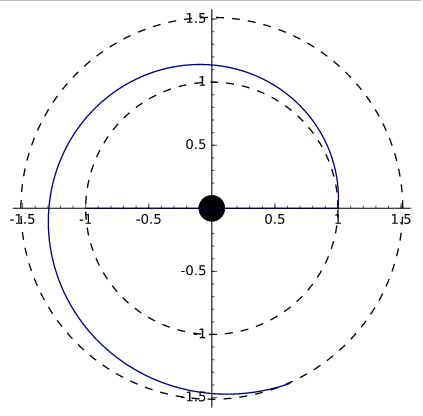
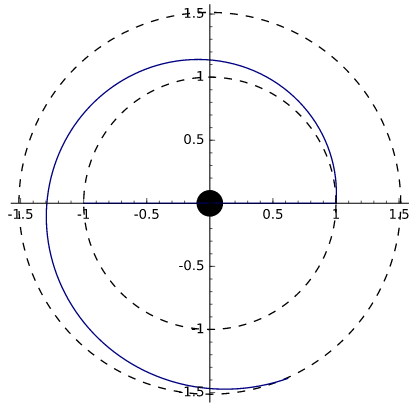
w

diff --git a/Uphysicsc.tex b/Uphysicsc.tex
@@ -10,7 +10,7 @@
 \renewcommand{\footrulewidth}{0.4pt}
 \usepackage[bf,sf]{titlesec}
 \usepackage{siunitx}
-\usepackage{titling}
+\usepackage{titling,graphicx}
 \usepackage{abstract}
 \usepackage{amsmath}
 \usepackage{siunitx}
@@ -124,17 +124,23 @@ And thus we obtain
 \end{align}
 
 Finally, we can rewrite the equations of motion for a solar sail in this more general case as follows:
-\begin{align*}
-  \dot{v}_r - \dfrac{v_{\theta}^2}{r} &= (a_R \cos^3{\alpha} - a_G) \left(\dfrac{r_0}{r}\right)^2 \\ 
+\begin{align}
+  \dot{v}_r - \dfrac{v_{\theta}^2}{r} &= (a_R \cos^3{\alpha} - a_G) \left(\dfrac{r_0}{r}\right)^2\label{carlessexy} \\ 
   \dot{v}_{\theta} + \dfrac{v_r v_{\theta}}{r} &= -a_R	\sin{\alpha} \cos^2{\alpha} \left(\dfrac{r_0}{r}\right)^2
-\end{align*}
+\end{align}
 As a consistency check,  we note that if \( \alpha = 0 \), that is, the sail is orthogonal to the radiation, we recover \autoref{eq:equations of motion characteristic accelerations}. However, the equations we have just obtained are \emph{not} the equations for a particle experiencing central force motion.   
 
 \section{First Results}
-\subsection{Payload Analysis}
-
-\subsection{The logarithmic spiral trajectory}
-Literature suggests \cite{tsu} one can neglect the  $\dot{v}_r$ term in equation !!! as a first approach. The simplified equation reads
+\subsection{The logarithmic spiral trajectory and discussion of a suitable distribuiton of mass}
+According to what has been discussed in the previous section, there are some variables of the sail which have to be calculated. This are
+\[
+a_R=6,45\cdot 10^{-7} \cdot M_w
+\]
+\[a_G=5,928\cdot 10^{-3}
+\]
+where $M_w$ denotes the mass of the sail.
+Another parameter
+Literature suggests \cite{tsu} one can neglect the  $\dot{v}_r$ term in equation \ref{carlessexy} as a first approach. The simplified equation reads
 \begin{equation}
 - \dfrac{v_{\theta}^2}{r} = (a_R \cos^3{\alpha} - a_G) \left(\dfrac{r_0}{r}\right)^2
 \end{equation} 
@@ -150,11 +156,16 @@ Look it up
 Having solved both velocities, one finds the trajectory taken is a logarithmic spiral, which only depends on the ratio \(a_G/a_R\) and $\alpha$.
 Figure ?? shows a first approximation of the trajectory taken by the space craft with the mentioned suppositions and values.
 
+\begin{figure}
+	\includegraphics[scale=0.5]{espiral.png}
+	\label{espiral}
+	\caption[font=smallest]{First approximation of the sail trajectory, in blue. The Sun is in the middle and the dashed lines represent the orbits of the Earth and Mars. Axis in AU.}
+\end{figure}
+
+
+
 \bibliographystyle{ieeetr}
 \bibliography{UphysicscNotes}
 
 \end{document}
-<<<<<<< HEAD
 
-=======
->>>>>>> 3579e496361fe3d01b8e57d90ac9d0df1b4b1ea2
